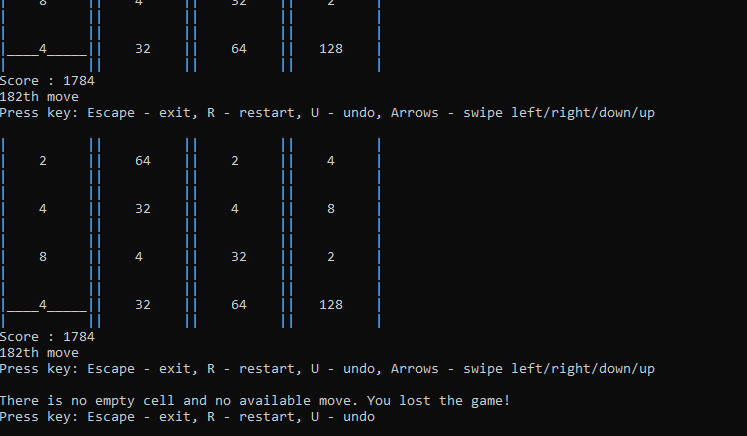
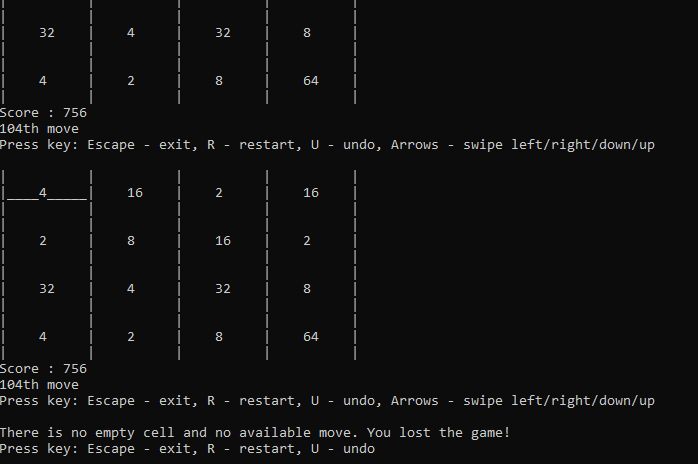
Decrease vertical bar's quantity in the game field

diff --git a/ConsoleIo.cs b/ConsoleIo.cs
@@ -19,7 +19,7 @@ namespace Game2048
                 throw new Exception($"Число {valueInt} нельзя отобразить в интерфейсе!");
             var whiteSpaceLeftCount = whiteSpaceCount/2;
             var whiteSpaceRightCount = whiteSpaceCount - whiteSpaceLeftCount;
-            return $"|{new string(repeatedChar,whiteSpaceLeftCount)}{valueStr}{new string(repeatedChar, whiteSpaceRightCount)}|";
+            return $"{new string(repeatedChar,whiteSpaceLeftCount)}{valueStr}{new string(repeatedChar, whiteSpaceRightCount)}|";
         }
         /// <summary>
         /// Строка для отображения пустого ряда чисел
@@ -29,10 +29,10 @@ namespace Game2048
         /// <returns></returns>
         public static string RowPlaceHolderString(int columnCount, char repeatedChar = ' ')
         {
-            var ret = "";
+            var ret = "|";
             for (var i = 1; i <= columnCount; i++)
             {
-                ret += $"|{new string(repeatedChar, FieldWidth)}|";
+                ret += $"{new string(repeatedChar, FieldWidth)}|";
             }
             return ret;
         }
@@ -50,7 +50,7 @@ namespace Game2048
             {
                 Console.WriteLine(RowPlaceHolderString(columnCount));
 
-                var rowString = "";
+                var rowString = "|";
                 for (var j = 0; j < columnCount; j++)
                 {
                     rowString += FieldValue2String(fields[i,j], i==underScoredRowNo && j==underScoredColumnNo ? '_' : ' ');
